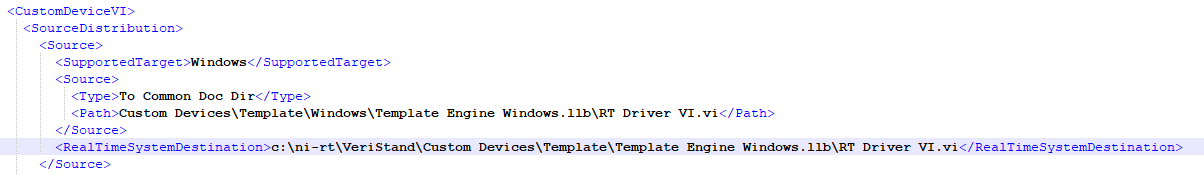
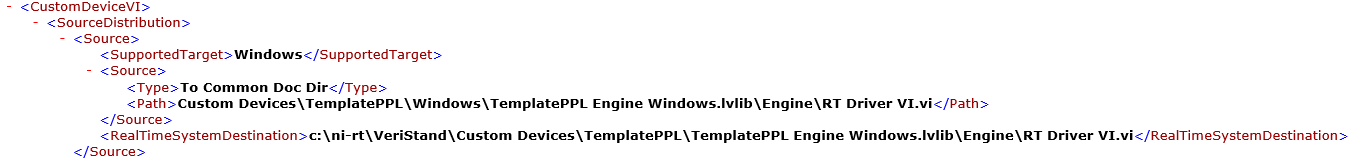
Photo changes

diff --git a/docs/Migrating_LLB_to_a_PPL_based_Custom_Device.md b/docs/Migrating_LLB_to_a_PPL_based_Custom_Device.md
@@ -28,13 +28,13 @@ This VI must execute after every PPL build, so what we need to do in addition is
 
 * When you open the Custom Device in Veristand you might see an error regarding the invalid path for some of the VIs (as you can see in the image below).
 
-![](images/VeriStand_Path_Error.PNG)
+![](images/VeriStand_Path_Error.png)
 
 This is happening because Veristand Engine is not completly compatible with PPLs, and it doesn't recognize some paths from PPLs. However, this does not affect how your Custom Device runs. The solution would be to change the code of the **Initialization** VI and **Action on Compile** VI (as tou can see below).A good example (where you can see the exact structure of the VI) is implemented on [FPGA Add-on Custom Device](https://github.com/ni/niveristand-fpga-addon-custom-device) and will be available in the Wizard. 
 
-![](images/Initialization_Change.PNG)
+![](images/Initialization_Change.png)
 
-![](images/Action_on_Compile.PNG)
+![](images/Action_on_Compile.png)
 
 * Certain VeriStand Custom Device APIs (like the NI VeriStand Custom Device Channel APIs) are using Global Data References. 
 
@@ -43,7 +43,7 @@ This is happening because Veristand Engine is not completly compatible with PPLs
 For creating a new packed project library based Custom Device you can start from a Custom Device template project. You can choose one for your application from the [VeriStand Custom Device Wizard](https://github.com/ni/niveristand-custom-device-wizard/releases). 
 ### Migrating to a PPL based Custom Device from an LLB one
 
-#. Changes regarding global data references
+#1. Changes regarding global data references
 If you use certain VeriStand Custom Device APIs, which is the case for an inline custom device, the first step to migrate an existing Custom Device would include changes regarding how the global data references are initialized.
 For performance reasons, channel values are stored in VeriStand as a single block of data - i.e. as an array of double values. To be able to access a value element corresponding to a given channel, VeriStand is using Global Variables to pass pointer information, from the engine, to the calling APIs. While this works well for custom devices packed in LLBs, the same does not apply for packed project libraries, due to namespacing. Essentially, when compiling a PPL, a separate (namespaced) copy of the global variable is created and included with it. In turn, it cannot be used anymore for data transfer between the VeriStand engine and the running custom device and would result in a runtime error. To be able to mitigate this problem, we need to implement an alternative way to access the values within these global variables.
 The initialization code below needs to be incapsulated within a subVI ("Initialize Global Variables"). It has to be called only once from within the target custom device and, for an Inline type, it would have to be called specifically in the "Read Data from HW" case of the "RT Driver" due to how the VeriStand engine initializes.
@@ -52,7 +52,7 @@ The initialization code below needs to be incapsulated within a subVI ("Initiali
 
 ![](images/GlobalReference2.PNG)
 
-#. Changes regarding libraries
+#2. Changes regarding libraries
 The next step is to create a packed project library for each LLB build specification you have in the project. The PPL needs to have the same configuration. To do so, you need to right click on **Built Specifications** » **New** » **Packed Library**. 
 
 ![](images/BuildSpecification.PNG)
@@ -84,17 +84,17 @@ After you are done check if you have a PPL for each LLB.
 
 **Note:** You should configure PPLs also for the Real Time targets build specifications.
 
-#. Changes regarding the XML
+#3. Changes regarding the XML
 The last step is to make the necessary changes in the XML file. For this you will need to change the path for each LLB with the path of each corresponding PPL.
 For example, the following image represents the XML code sequence for the custom device RT Driver VI on a Windows target. 
 
 ![](images/XML_Engine_Path_LLB.PNG)
 
-You need to change what comes after the `&lt;Path&gt;` tag.
+You need to change what comes after the <<Path>> tag.
 
 ![](images/XML_Engine_Path_PPL.PNG)
 
-Here you can see the `&lt;Path&gt;` contains a path for a VI located inside a PPL. You need to update all the `&lt;Path&gt;` tags in the XML that reference VIs inside the newly created PPLs.
+Here you can see the <<Path>> contains a path for a VI located inside a PPL. You need to update all the <<Path>> tags in the XML that reference VIs inside the newly created PPLs.
 
-**Note:** You need to update also the `&lt;RealTimeSystemDestination&gt;` tags.
+**Note:** You need to update also the <<RealTimeSystemDestination>> tags.
 
